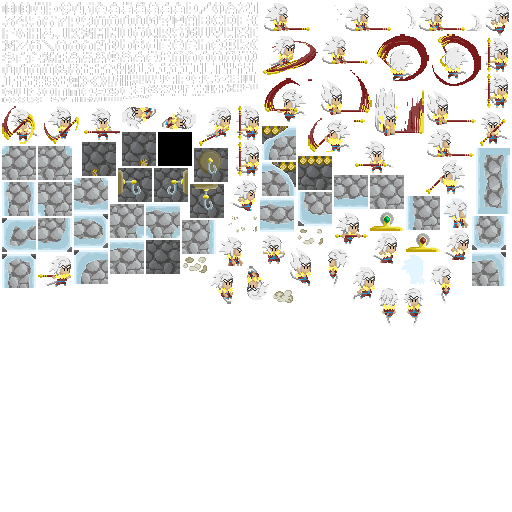
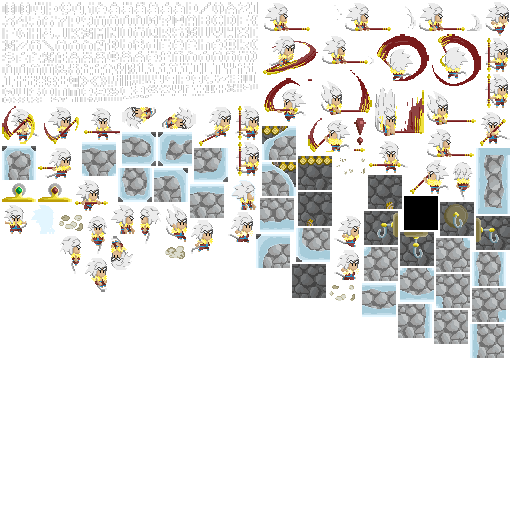
Door tween

Changed region(s): [[0.0, 0.2188, 1.0, 0.7188]]

diff --git a/Assets/Resources/Scripts/Player.cs b/Assets/Resources/Scripts/Player.cs
@@ -28,18 +28,26 @@ public class Player : FAnimatedSprite
         SLAM_TRANS_IN,
         SLAM_MOVE,
         SLAM_LAND,
-        TAKE_DAMAGE
+        TAKE_DAMAGE,
+        INTERACT_LEVER
 
     }
     private FSprite extendPoleMiddle;
     private FSprite extendPoleEnd;
     public World world;
-
+    private Lever interactLever;
+    public FSprite indication;
+    private float indYDiff = 0;
+    private const float MAX_IND_Y_DIFF = 20;
+    public float IndicationY { get { return indYDiff; } set { indYDiff = value; indication.SetPosition(this.GetPosition() + Vector2.up * (indYDiff+ 30f)); indication.scale = .6f + (indYDiff / MAX_IND_Y_DIFF) * .3f; } }
     public Player()
         : base("player")
     {
         extendPoleMiddle = new FSprite("pole_mid");
         extendPoleEnd = new FSprite("pole_end");
+        indication = new FSprite("indication");
+        Go.to(this, 1.0f, new TweenConfig().floatProp("IndicationY", MAX_IND_Y_DIFF).setEaseType(EaseType.QuadIn).setIterations(-1, LoopType.PingPong));
+
         //Just landing 26
         addAnimation(new FAnimation(State.IDLE.ToString(), new int[] { 1, 2, 3, 4, 1 }, 100, false));
         addAnimation(new FAnimation(State.RUN.ToString(), new int[] { 5, 6, 7, 8 }, 100, true));
@@ -49,6 +57,7 @@ public class Player : FAnimatedSprite
         addAnimation(new FAnimation(State.DOUBLE_JUMP.ToString(), new int[] { 21 }, 100, true));
         addAnimation(new FAnimation(State.FALL.ToString(), new int[] { 22 }, 100, true));
         addAnimation(new FAnimation(State.SUPERJUMP_CHARGE.ToString(), new int[] { 23, 23, 23, 23, 23, 24, 24, 24, 24, 24, 23, 23, 23, 23, 24, 24, 24, 24, 23, 23, 23, 24, 24, 24, 23, 23, 24, 24, 23, 24, 23, 24 }, 40, false));
+        addAnimation(new FAnimation(State.INTERACT_LEVER.ToString(), new int[] { 15, 16, 17 }, 300, false));
         addAnimation(new FAnimation(State.ATTACK_ONE.ToString(), new int[] { 11, 12, 13, 14 }, 100, false));
         addAnimation(new FAnimation(State.ATTACK_TWO.ToString(), new int[] { 15, 16, 17 }, 100, false));
         addAnimation(new FAnimation(State.ATTACK_THREE.ToString(), new int[] { 18, 19 }, 50, false));
@@ -87,6 +96,7 @@ public class Player : FAnimatedSprite
                     case State.SLAM_LAND:
                     case State.TAIL_HANG:
                     case State.SUPERJUMP_CHARGE:
+                    case State.INTERACT_LEVER:
                         this.play(value.ToString(), true);
                         break;
                     case State.ATTACK_AIR:
@@ -134,7 +144,8 @@ public class Player : FAnimatedSprite
     private const float ATTACK_AIR_COUNT_VALUE = .5f;
     public void Update()
     {
-
+        if (C.isTransitioning)
+            return;
         switch (currentState)
         {
             case State.IDLE:
@@ -142,6 +153,12 @@ public class Player : FAnimatedSprite
             case State.DOUBLE_JUMP:
             case State.RUN:
             case State.SLIDE:
+                if (C.getKey(C.ACTION_KEY) && !lastActionPress && interactLever != null)
+                {
+                    currentState = State.INTERACT_LEVER;
+                    this.SetPosition(interactLever.GetPosition());
+                    return;
+                }
                 if (currentState == State.IDLE)
                     if (this.IsStopped && RXRandom.Float() < .2f)
                         this.play(currentState.ToString(), true);
@@ -229,6 +246,13 @@ public class Player : FAnimatedSprite
                 if (Mathf.Abs(xVel) < .1f)
                     xVel = 0;
                 break;
+            case State.INTERACT_LEVER:
+                if (this.IsStopped)
+                {
+                    world.ActivateLever(interactLever);
+                    currentState = State.IDLE;
+                }
+                return;
             case State.ATTACK_ONE:
                 xVel *= groundFriction;
                 if (stateCount > ATTACK_ONE_TIME)
@@ -338,7 +362,7 @@ public class Player : FAnimatedSprite
             case State.SUPERJUMP_CHARGE:
                 xVel = 0;
                 speed = 0;
-                if(this.IsStopped)
+                if (this.IsStopped)
                     currentState = State.SUPERJUMP_ABLE;
                 if (!C.getKey(C.DOWN_KEY))
                 {
@@ -402,9 +426,29 @@ public class Player : FAnimatedSprite
             this.play(State.FALL.ToString());
         else
             this.play(currentState.ToString());
+
+        CheckInteractableObjects();
+
         lastJumpPress = C.getKey(C.JUMP_KEY);
         lastDownPress = C.getKey(C.DOWN_KEY);
         lastActionPress = C.getKey(C.ACTION_KEY);
+    }
+    private void CheckInteractableObjects()
+    {
+        Lever interactableLever = world.GetInteractableLever();
+        if (this.interactLever == null && interactableLever != null)
+        {
+            this.interactLever = interactableLever;
+            Futile.stage.AddChild(indication);
+        }
+        else
+        {
+            if (this.interactLever != null && interactableLever == null)
+            {
+                this.interactLever = null;
+                indication.RemoveFromContainer();
+            }
+        }
     }
     private const float SLAM_LAND_SHAKE = 2.0f;
     private const float SLAM_LAND_SHAKE_TIME = .2f;

diff --git a/Assets/Resources/Scripts/MapLoader.cs b/Assets/Resources/Scripts/MapLoader.cs
@@ -8,13 +8,14 @@ public class MapLoader
 {
     public static void LoadObjects(World world, List<XMLNode> objects)
     {
+                    string name = "";
+                    string mapTarget = "";
+                    string target = "";
         foreach (XMLNode node in objects)
             switch (node.attributes["type"].ToUpper())
             {
                 case "TRAVELPOINT":
-                    string name = node.attributes["name"];
-                    string mapTarget = "";
-                    string target = "";
+                    name = node.attributes["name"];
                     float x, y, width, height;
                     float.TryParse(node.attributes["x"], out x);
                     float.TryParse(node.attributes["y"], out y);
@@ -48,6 +49,20 @@ public class MapLoader
                     }
 
                     world.addDoor(new Door(x, y, name, width < height));
+                    break;
+                case "LEVER":
+                    name = node.attributes["name"];
+                    float.TryParse(node.attributes["x"], out x);
+                    float.TryParse(node.attributes["y"], out y);
+                    target = "";
+                    foreach (XMLNode property in ((XMLNode)node.children[0]).children)
+                    {
+                        switch (property.attributes["name"].ToUpper())
+                        {
+                            case "DOOR": target = property.attributes["value"]; break;
+                        }
+                    }
+                    world.addLever(new Lever(x + 16, -y - 16, name, target));
                     break;
             }
     }

diff --git a/Assets/Resources/Scripts/World.cs b/Assets/Resources/Scripts/World.cs
@@ -14,6 +14,7 @@ public class World : FContainer
 
     List<WorldTravelPoint> travelPoints = new List<WorldTravelPoint>();
     List<Door> doors = new List<Door>();
+    List<Lever> levers = new List<Lever>();
 
     public World()
     {
@@ -44,6 +45,7 @@ public class World : FContainer
         background.AddChild(tilemap);
         MapLoader.LoadObjects(this, map.objects);
         C.getCameraInstance().setWorldBounds(new Rect(0, -tilemap.height, tilemap.width, tilemap.height));
+        Futile.stage.AddChild(C.getCameraInstance());
 
     }
 
@@ -51,6 +53,11 @@ public class World : FContainer
     {
 
         travelPoints.Add(travelPoint);
+    }
+    public void addLever(Lever lever)
+    {
+        levers.Add(lever);
+        background.AddChild(lever);
     }
 
     public void addDoor(Door door)
@@ -96,6 +103,25 @@ public class World : FContainer
         {
             LoadAndSpawn(activeTravelPoint.mapToLoad, activeTravelPoint.travelPointTarget);
         }
+    }
+    public void ActivateLever(Lever lever)
+    {
+        lever.Activate();
+        foreach(Door d in doors)
+            if (d.name == lever.doorTarget)
+            {
+                d.Open();
+                break;
+            }
+    }
+    public Lever GetInteractableLever()
+    {
+        foreach (Lever lever in levers)
+        {
+            if(lever.IsTileOccupied(Mathf.FloorToInt(p.x/tilemap.tileWidth), Mathf.FloorToInt(p.y/tilemap.tileHeight),tilemap.tileWidth))
+                return lever;
+        }
+        return null;
     }
     public void LoadAndSpawn(string mapName, string travelPoint)
     {

diff --git a/Assets/Resources/Scripts/Objects/Doors.cs b/Assets/Resources/Scripts/Objects/Doors.cs
@@ -10,13 +10,12 @@ public class Door : FSprite
     private enum State
     {
         CLOSED,
-        OPENING,
         OPEN
     }
     private Boolean isVertical;
     private State currentState;
 
-    string name = "";
+    public string name = "";
     public Door(float x, float y, string name, Boolean vert)
         : base("door")
     {
@@ -28,8 +27,18 @@ public class Door : FSprite
         this.name = name;
     }
 
+    public void Open()
+    {
+        currentState = State.OPEN;
+        C.isTransitioning = true;
+        C.getCameraInstance().shake(1.0f, 1.0f);
+        Go.to(this, 1.0f, new TweenConfig().floatProp("y", 64, true).setEaseType(EaseType.QuadIn).onComplete((t) => { C.isTransitioning = false; }));
+    }
+
     public bool IsTileOccupied(int x, int y, float tileWidth)
     {
+        if (currentState == State.OPEN)
+            return false;
         bool result = Mathf.FloorToInt(this.x / tileWidth) == x && Mathf.FloorToInt(this.y / tileWidth) == y;
         if (!result)
         {

diff --git a/Assets/Resources/Scripts/Objects/Lever.cs b/Assets/Resources/Scripts/Objects/Lever.cs
@@ -1,0 +1,38 @@
+using System;
+using System.Collections.Generic;
+using System.Linq;
+using System.Text;
+using UnityEngine;
+
+
+public class Lever : FSprite
+{
+    private enum State
+    {
+        ACTIVATED,
+        INACTIVE
+    }
+     State currentState;
+
+    public string name = "";
+    public string doorTarget = "";
+    public Lever(float x, float y, string name, string door)
+        : base("lever_on")
+    {
+        this.x = x;
+        this.y = y;
+        this.name = name;
+        this.doorTarget = door;
+        currentState = State.INACTIVE;
+    }
+    public void Activate()
+    {
+        currentState = State.ACTIVATED;
+        this.SetElementByName("lever_off");
+    }
+    public bool IsTileOccupied(int x, int y, float tileWidth)
+    {
+        return currentState == State.INACTIVE && Mathf.FloorToInt(this.x / tileWidth) == x && Mathf.FloorToInt(this.y / tileWidth) == y;
+    }
+}
+

diff --git a/Assets/Resources/Scripts/GameScript.cs b/Assets/Resources/Scripts/GameScript.cs
@@ -26,6 +26,7 @@ public class GameScript : MonoBehaviour
         FLabel versionLabel = new FLabel(C.smallFontName, C.versionNumber);
         versionLabel.y = -Futile.screen.height / 2 + versionLabel.textRect.height;
         C.getCameraInstance().AddChild(versionLabel);
+        C.getCameraInstance().MoveToFront();
         Go.to(versionLabel, 6.0f, new TweenConfig().floatProp("alpha", 0).setEaseType(EaseType.QuadIn));
 
     }

diff --git a/Assets/Resources/Scripts/C.cs b/Assets/Resources/Scripts/C.cs
@@ -18,7 +18,7 @@ public class C
     public static readonly List<int> HOOK_LIST = new List<int> { 37,38,39,40 };
     public static readonly List<int> ONE_WAY_LIST = new List<int> { 50 };
 
-    public const string versionNumber = "v0.2";
+    public const string versionNumber = "v0.3";
 
     public static bool isTransitioning = false;
 
